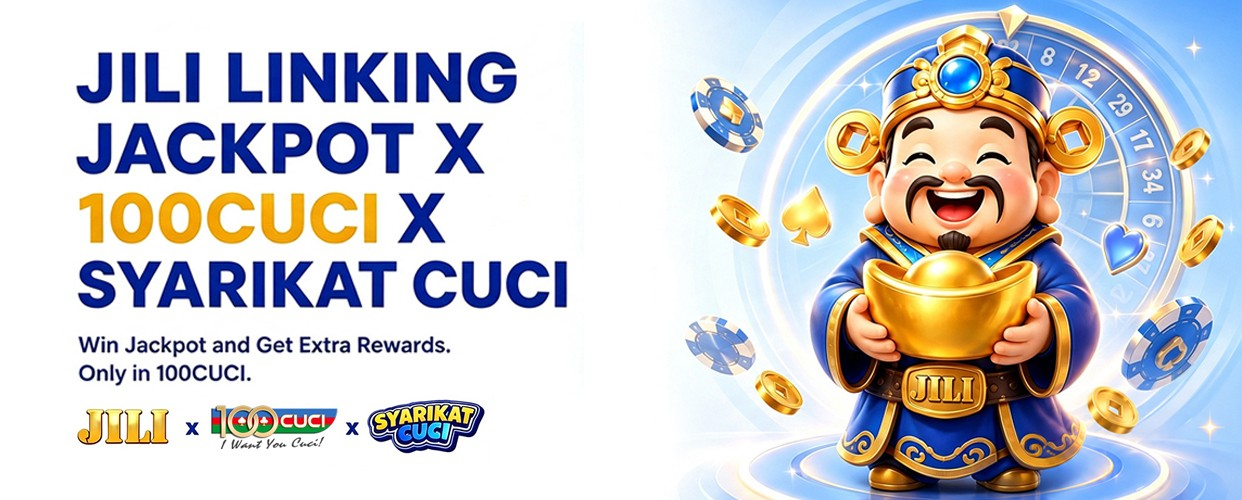
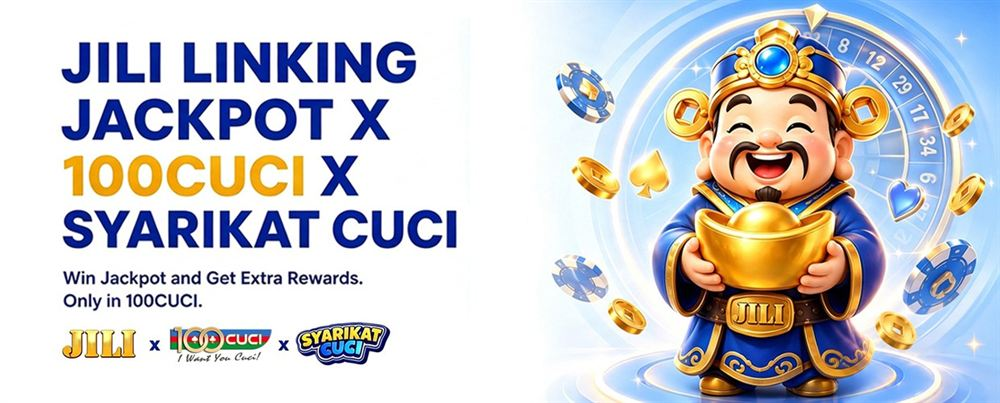
Speed up page load: still images for GIFs, lazy loading, cache
Show still frames for first-screen GIF buttons and nav icons and swap in
the animations after load, lazy-load below-the-fold GIFs and logos, set
image sizes, preload the first banner, recompress banners, shrink the
partner logo, add a main landmark, enlarge carousel dot tap targets and
cache assets for 30 days.

diff --git a/index.html b/index.html
@@ -16,15 +16,16 @@
   <meta property="og:image" content="https://www.12cuci.site/assets/12cuci/banners/banner-1.jpg">
   <link rel="icon" href="assets/12cuci/logo.png">
   <meta name="theme-color" content="#011b1d">
+  <link rel="preload" as="image" href="assets/12cuci/banners/banner-1.jpg" fetchpriority="high">
   <link rel="stylesheet" href="styles.css">
 </head>
 <body>
-  <div class="app">
+  <main class="app">
 
     <header class="topbar">
       <a class="logo" href="./" id="logo"></a>
       <a class="partner" data-link="partnership" id="partner"></a>
-      <a class="menu-btn" data-link="register" aria-label="Menu"><img src="assets/12cuci/menu.png" alt=""></a>
+      <a class="menu-btn" data-link="register" aria-label="Menu"><img src="assets/12cuci/menu.png" alt="" width="50" height="51"></a>
     </header>
 
     <div class="marquee" aria-label="Announcement"><span id="marquee"></span></div>
@@ -34,11 +35,11 @@
       <div class="carousel-dots" id="carouselDots"></div>
     </section>
 
-    <a class="pay-strip" data-link="deposit"><img src="assets/12cuci/static.png" alt="Trusted &amp; safe, fast service, fast payout. We accept online banking and QR code."></a>
+    <a class="pay-strip" data-link="deposit"><img src="assets/12cuci/static.png" alt="Trusted &amp; safe, fast service, fast payout. We accept online banking and QR code." width="1358" height="168"></a>
 
     <div class="auth-row">
-      <a class="img-btn" data-link="login"><img src="assets/12cuci/btn-login.gif" alt="Login"></a>
-      <a class="img-btn" data-link="register"><img src="assets/12cuci/btn-register.gif" alt="Register"></a>
+      <a class="img-btn" data-link="login"><img src="assets/12cuci/still/btn-login.png" data-anim="assets/12cuci/btn-login.gif" alt="Login" width="300" height="77"></a>
+      <a class="img-btn" data-link="register"><img src="assets/12cuci/still/btn-register.png" data-anim="assets/12cuci/btn-register.gif" alt="Register" width="300" height="77"></a>
     </div>
 
     <section class="wallet">
@@ -49,30 +50,30 @@
         <p>Withdraw Minimum: <b id="minWithdrawal"></b></p>
       </div>
       <div class="wallet-actions">
-        <a class="img-btn" data-link="deposit"><img src="assets/12cuci/btn-deposit.gif" alt="Deposit"></a>
-        <a class="img-btn" data-link="withdraw"><img src="assets/12cuci/btn-withdraw.gif" alt="Withdraw"></a>
-        <button class="img-btn" id="refreshBtn"><img src="assets/12cuci/btn-refresh.gif" alt="Refresh"></button>
+        <a class="img-btn" data-link="deposit"><img src="assets/12cuci/still/btn-deposit.png" data-anim="assets/12cuci/btn-deposit.gif" alt="Deposit" width="300" height="94"></a>
+        <a class="img-btn" data-link="withdraw"><img src="assets/12cuci/still/btn-withdraw.png" data-anim="assets/12cuci/btn-withdraw.gif" alt="Withdraw" width="300" height="94"></a>
+        <button class="img-btn" id="refreshBtn"><img src="assets/12cuci/still/btn-refresh.png" data-anim="assets/12cuci/btn-refresh.gif" alt="Refresh" width="300" height="94"></button>
       </div>
     </section>
 
-    <a class="promo" data-link="gameTips"><img src="assets/12cuci/game-tips.gif" alt="Latest game tips and bet ratio"></a>
+    <a class="promo" data-link="gameTips"><img src="assets/12cuci/game-tips.gif" alt="Latest game tips and bet ratio" width="500" height="173" loading="lazy"></a>
 
     <section class="referral">
-      <img src="assets/12cuci/refer.gif" alt="RM10 free share plus 5% commission. Share more, earn more.">
+      <img src="assets/12cuci/refer.gif" alt="RM10 free share plus 5% commission. Share more, earn more." width="500" height="465" loading="lazy">
       <div class="referral-actions">
-        <button class="img-btn" id="shareBtn"><img src="assets/12cuci/btn-share.gif" alt="Share"></button>
-        <a class="img-btn" data-link="downlineChart"><img src="assets/12cuci/btn-downline.gif" alt="Downline chart"></a>
-        <button class="img-btn" id="copyBtn"><img src="assets/12cuci/btn-copy.gif" alt="Copy referral link"></button>
-        <a class="img-btn" data-link="referralInfo"><img src="assets/12cuci/btn-more.gif" alt="Free bot"></a>
+        <button class="img-btn" id="shareBtn"><img src="assets/12cuci/btn-share.gif" alt="Share" width="300" height="63" loading="lazy"></button>
+        <a class="img-btn" data-link="downlineChart"><img src="assets/12cuci/btn-downline.gif" alt="Downline chart" width="300" height="63" loading="lazy"></a>
+        <button class="img-btn" id="copyBtn"><img src="assets/12cuci/btn-copy.gif" alt="Copy referral link" width="300" height="63" loading="lazy"></button>
+        <a class="img-btn" data-link="referralInfo"><img src="assets/12cuci/btn-more.gif" alt="Free bot" width="300" height="63" loading="lazy"></a>
       </div>
     </section>
 
     <section class="lucky">
-      <img src="assets/12cuci/lucky.png" alt="Lucky draw deposit: every RM10 deposit gets 1 lucky number. 1st prize RM300, 2nd prize RM200, 3rd prize RM100.">
-      <a class="img-btn" data-link="luckyNumber"><img src="assets/12cuci/btn-lucky.gif" alt="My lucky number"></a>
+      <img src="assets/12cuci/lucky.png" alt="Lucky draw deposit: every RM10 deposit gets 1 lucky number. 1st prize RM300, 2nd prize RM200, 3rd prize RM100." width="1400" height="485" loading="lazy">
+      <a class="img-btn" data-link="luckyNumber"><img src="assets/12cuci/btn-lucky.gif" alt="My lucky number" width="300" height="60" loading="lazy"></a>
     </section>
 
-    <a class="promo" data-link="telegram" target="_blank" rel="noopener"><img src="assets/12cuci/telegram.gif" alt="Subscribe to 12Cuci on Telegram"></a>
+    <a class="promo" data-link="telegram" target="_blank" rel="noopener"><img src="assets/12cuci/telegram.gif" alt="Subscribe to 12Cuci on Telegram" width="700" height="204" loading="lazy"></a>
 
     <section class="block">
       <h2 class="block-title"><span class="top-badge">TOP</span> HOT GAMES</h2>
@@ -174,31 +175,31 @@
         <div>
           <h3>PARTNERSHIP</h3>
           <a data-link="partnership" class="partners">
-            <img src="assets/12cuci/partner-1.png" alt="Syarikat Cuci">
-            <img src="assets/12cuci/partner-2.png" alt="100 Cuci">
+            <img src="assets/12cuci/partner-1.png" alt="Syarikat Cuci" width="260" height="123" loading="lazy">
+            <img src="assets/12cuci/partner-2.png" alt="100 Cuci" width="300" height="78" loading="lazy">
           </a>
         </div>
         <div>
           <h3>PROVIDERS</h3>
-          <img src="assets/12cuci/providers.png" alt="iovation, bmm, iTech Labs, TST verified, GoDaddy verified and secured">
+          <img src="assets/12cuci/providers.png" alt="iovation, bmm, iTech Labs, TST verified, GoDaddy verified and secured" width="1141" height="325" loading="lazy">
         </div>
       </div>
       <h3>WE ACCEPT</h3>
       <div class="icons" id="payments"></div>
       <p class="copyright" id="copyright"></p>
-      <a class="read-more" data-link="readMore">Read More</a>
+      <a class="read-more" data-link="readMore">Read More About 12Cuci</a>
       <p class="footer-note">18+ only. Please play responsibly.</p>
     </footer>
-  </div>
+  </main>
 
-  <a class="side-tab" data-link="partnership"><img src="assets/12cuci/float.png" alt="Partnership"></a>
+  <a class="side-tab" data-link="partnership"><img src="assets/12cuci/float.png" alt="Partnership" width="60" height="259"></a>
 
   <nav class="bottom-nav">
-    <a href="./"><img src="assets/12cuci/nav-home.gif" alt="Home"></a>
-    <a data-link="history"><img src="assets/12cuci/nav-history.gif" alt="History"></a>
-    <a data-link="bonus"><img src="assets/12cuci/nav-bonus.gif" alt="Bonus"><b class="badge">1</b></a>
-    <a data-link="liveChat"><img src="assets/12cuci/nav-chat.gif" alt="Live chat"><b class="badge">1</b></a>
-    <a data-link="settings"><img src="assets/12cuci/nav-setting.gif" alt="Setting"></a>
+    <a href="./"><img src="assets/12cuci/still/nav-home.png" data-anim="assets/12cuci/nav-home.gif" alt="Home" width="200" height="269"></a>
+    <a data-link="history"><img src="assets/12cuci/still/nav-history.png" data-anim="assets/12cuci/nav-history.gif" alt="History" width="200" height="269"></a>
+    <a data-link="bonus"><img src="assets/12cuci/still/nav-bonus.png" data-anim="assets/12cuci/nav-bonus.gif" alt="Bonus" width="200" height="256"><b class="badge">1</b></a>
+    <a data-link="liveChat"><img src="assets/12cuci/still/nav-chat.png" data-anim="assets/12cuci/nav-chat.gif" alt="Live chat" width="200" height="208"><b class="badge">1</b></a>
+    <a data-link="settings"><img src="assets/12cuci/still/nav-setting.png" data-anim="assets/12cuci/nav-setting.gif" alt="Setting" width="200" height="208"></a>
   </nav>
 
   <div class="toast" id="toast" role="status"></div>

diff --git a/styles.css b/styles.css
@@ -64,9 +64,10 @@ img { display: block; max-width: 100%; }
 .carousel-track::-webkit-scrollbar { display: none; }
 .slide { flex: 0 0 100%; scroll-snap-align: start; aspect-ratio: 1242 / 500; }
 .slide img { width: 100%; height: 100%; object-fit: cover; }
-.carousel-dots { position: absolute; bottom: 6px; left: 0; right: 0; display: flex; justify-content: center; gap: 6px; }
-.carousel-dots button { width: 7px; height: 7px; border-radius: 50%; background: rgba(255, 255, 255, .4); }
-.carousel-dots button.active { background: #fff; }
+.carousel-dots { position: absolute; bottom: 0; left: 0; right: 0; display: flex; justify-content: center; }
+/* Small dot, but a 24px tap area around it. */
+.carousel-dots button { width: 24px; height: 24px; padding: 8.5px; border-radius: 50%; background-color: rgba(255, 255, 255, .4); background-clip: content-box; }
+.carousel-dots button.active { background-color: #fff; }
 
 .pay-strip img { width: 100%; height: auto; }
 
@@ -167,7 +168,7 @@ img { display: block; max-width: 100%; }
 .icons { display: flex; flex-wrap: wrap; gap: 8px; }
 .icons img { width: 38px; height: 38px; object-fit: contain; border-radius: 8px; background: #fff; }
 .copyright { margin-top: 36px; text-align: center; font-size: 13px; }
-.read-more { display: block; width: 125px; margin: 28px auto 0; padding: 10px; border-radius: 4px; background: var(--teal); text-align: center; font-size: 16px; font-weight: 700; }
+.read-more { display: block; width: 200px; margin: 28px auto 0; padding: 10px; border-radius: 4px; background: var(--teal); text-align: center; font-size: 16px; font-weight: 700; }
 .footer-note { margin-top: 20px; padding-top: 14px; border-top: 1px solid var(--line); text-align: center; font-size: 12px; color: var(--muted); }
 
 /* ---------- Floating partnership tab ---------- */

diff --git a/script.js b/script.js
@@ -7,16 +7,23 @@
   const link = (key) => esc(S.links[key] || "#");
 
   // ---------- Brand ----------
-  $("logo").innerHTML = `<img src="${esc(S.brand.logo)}" alt="${esc(S.brand.name)}">`;
-  $("partner").innerHTML = img(S.brand.partner.img, S.brand.partner.name);
+  // Logo and badge sit at the top of the page, so they load straight away.
+  $("logo").innerHTML = `<img src="${esc(S.brand.logo)}" alt="${esc(S.brand.name)}" width="1309" height="590">`;
+  $("partner").innerHTML = `<img src="${esc(S.brand.partner.img)}" alt="${esc(S.brand.partner.name)}" width="458" height="226">`;
   $("marquee").textContent = S.announcement;
   $("copyright").textContent = S.copyright;
+
+  // Buttons and nav icons on the first screen show a still image first; their
+  // large animated GIFs are swapped in once everything else has loaded.
+  window.addEventListener("load", () => {
+    document.querySelectorAll("img[data-anim]").forEach((el) => { el.src = el.dataset.anim; });
+  });
 
   // ---------- Carousel ----------
   const track = $("carouselTrack");
   const dots = $("carouselDots");
   track.innerHTML = S.banners.map((src, i) =>
-    `<a class="slide" href="${link("register")}"><img src="${esc(src)}" alt="12Cuci promotion ${i + 1}"${i ? ' loading="lazy"' : ""}></a>`
+    `<a class="slide" href="${link("register")}"><img src="${esc(src)}" alt="12Cuci promotion ${i + 1}"${i ? ' loading="lazy"' : ' fetchpriority="high"'}></a>`
   ).join("");
   dots.innerHTML = S.banners.map((_, i) => `<button aria-label="Slide ${i + 1}"></button>`).join("");
 
